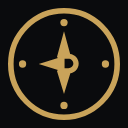
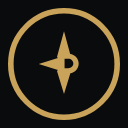
brand: drop the dots from the dial

diff --git a/src/components/Dial.tsx b/src/components/Dial.tsx
@@ -2,10 +2,8 @@
 // (Figma YvFbHaXgIBzzJlHoHpuzyw). The colour comes from currentColor, set to the
 // --brand-mark token, so the logo follows tokens.json.
 
-/** Below this size the dots stop reading, so the logo drops to the star alone. */
+/** Below this size the ring crowds the star, so the logo drops to the star alone. */
 export const DIAL_MIN_SIZE = 24
-
-const dots: ReadonlyArray<readonly [number, number]> = [[100, 26], [174, 100], [100, 174], [26, 100]]
 
 // The compass rose P on the dial's 200 grid: 112 tall, ray crossing at (100, 100).
 const dialStar =
@@ -35,9 +33,6 @@ export function Dial({ size = 40, label = 'Pathfinder' }: DialProps) {
       {full ? (
         <>
           <circle cx={100} cy={100} r={95} stroke="currentColor" strokeWidth={10} />
-          {dots.map(([cx, cy]) => (
-            <circle key={`${cx}-${cy}`} cx={cx} cy={cy} r={6.5} fill="currentColor" />
-          ))}
           <path d={dialStar} fill="currentColor" />
         </>
       ) : (

diff --git a/src/components/Dial.stories.tsx b/src/components/Dial.stories.tsx
@@ -10,7 +10,7 @@ const meta = {
     docs: {
       description: {
         component:
-          'The Pathfinder logo. At 24px and up it is the dial: a solid ring, four cardinal dots and the compass rose P. Below 24px it drops to the compass rose P alone, because the dots stop reading at that size. It is drawn in the brand mark colour and read as an image named "Pathfinder".',
+          'The Pathfinder logo. At 24px and up it is the dial: a solid ring around the compass rose P. Below 24px it drops to the compass rose P alone, because the ring crowds the star at that size. It is drawn in the brand mark colour and read as an image named "Pathfinder".',
       },
     },
   },

diff --git a/src/components/Dial.test.tsx b/src/components/Dial.test.tsx
@@ -11,11 +11,11 @@ describe('Dial', () => {
     expect(svg.getAttribute('viewBox')).toBe('0 0 200 200')
   })
 
-  it('renders the dial at 24px', () => {
+  it('renders the dial at 24px: ring and star, no dots', () => {
     expect(DIAL_MIN_SIZE).toBe(24)
     render(<Dial size={24} />)
     const svg = screen.getByRole('img')
-    expect(svg.querySelectorAll('circle')).toHaveLength(5)
+    expect(svg.querySelectorAll('circle')).toHaveLength(1)
     expect(svg.querySelectorAll('path')).toHaveLength(1)
   })
 

diff --git a/src/components/AppBar.test.tsx b/src/components/AppBar.test.tsx
@@ -11,7 +11,7 @@ describe('AppBar', () => {
 
   it('the disc shows the dial', () => {
     render(<AppBar />)
-    expect(screen.getByRole('img', { name: 'Pathfinder' }).querySelectorAll('circle')).toHaveLength(5)
+    expect(screen.getByRole('img', { name: 'Pathfinder' }).querySelectorAll('circle')).toHaveLength(1)
   })
 
   it('shows a working back button when onBack is given', () => {

diff --git a/brand/kit/README.md b/brand/kit/README.md
@@ -4,13 +4,13 @@ The Pathfinder logo has two cuts of one drawing.
 
 | Cut | Use at | Files |
 |---|---|---|
-| **Dial**: solid ring, four cardinal dots, the compass rose P | 24px and up (lockups, app icon, covers, end cards, OG images) | `brand/dial.svg` (gold), `dial-navy.svg`, `dial-cream.svg`, `dial-mono.svg` |
+| **Dial**: a solid ring around the compass rose P | 24px and up (lockups, app icon, covers, end cards, OG images) | `brand/dial.svg` (gold), `dial-navy.svg`, `dial-cream.svg`, `dial-mono.svg` |
 | **Mark**: the compass rose P alone | below 24px (favicons, inline UI) | `brand/mark.svg` (gold), `mark-inverted.svg`, `mark-cream.svg`, `mark-mono.svg`, `favicon.svg` |
 
 - Lockup: `brand/lockup.svg` (dial plus the Cormorant Garamond SemiBold wordmark, `currentColor`).
 - Previews: `brand/previews/dial-512.png`, `dial-128.png`, `lockup-512.png`, `lockup-128.png`.
 - Colourways: gold `#C9A35A` on navy, navy `#16213B` on cream `#F3EEE3`, cream on navy, black or white for one-colour use.
 - Clear space: one bowl height of the P on every side.
-- Never recolour the dots or the ring separately, never rotate (north up), never draw the old dotted star ring.
+- Never recolour the ring and star separately, never rotate (north up), never add dots (the dotted star ring and the four-dot dial are both retired).
 - Figma source: brand mark file `YvFbHaXgIBzzJlHoHpuzyw`, components `dial` and `mark`, rules on the `usage` page.
 - In React (pathfinder-ds): `<Dial size={n} />` picks the cut by size.

diff --git a/decisions.md b/decisions.md
@@ -256,3 +256,4 @@ file in `specs/decisions/`.
 | Reintroduced the Storybook Vitest browser runner (`@storybook/addon-vitest`, Vitest browser mode on Playwright Chromium) and set a11y tests to `error`; `npm test` now runs tokens, unit and story suites | jsdom cannot measure contrast, glass or focus, so the a11y gate the v2 library promises would check nothing real; reverses the Task 12 scaffold decision, approved by Jake 2026-10-17 |
 | ProgressBar takes a `label` (default "Progress"); the ritual's bar is named "Morning ritual" | the first real-browser run found the progressbar had no accessible name (axe aria-progressbar-name) |
 | Eight v1-leftover stories (Tag danger and all, DateChip overdue and all, Input with value, error, disabled and all) set to a11y `todo` until their Task 14 redesign | they fail on v1 status reds and unlabelled fields that the redesign removes; marking them keeps the gate strict for everything else instead of hiding the failures |
+| Dropped the four cardinal dots from the dial everywhere (brand file set, DS brand / dial, insert title page, Dial component, brand SVGs, lockup, previews, og.png, kit, Desktop brand folder); the star stays at 112 of 200 (56%) | Jake, 2026-10-17: at large sizes the dotted dial "reads more like a target rather than a compass"; pathfinder-site shipped the same change first (c18c4d7), so this keeps one logo everywhere |

diff --git a/design.md b/design.md
@@ -244,7 +244,7 @@ or spacing value in `src/components/`.
 | checkbox | native input underneath, styled box on top |
 | compass-choice | one large choice (64px minimum) in the sort step |
 | date-chip | when an item is due; state is derived from the date |
-| dial | the logo: solid ring, four cardinal dots and the compass rose P at 24px and up; the compass rose P alone below 24px |
+| dial | the logo: a solid ring around the compass rose P at 24px and up; the compass rose P alone below 24px |
 | empty-state | art, a line of copy and one action |
 | glass-card | container on the glass surface |
 | input | text field with helper and error text |
